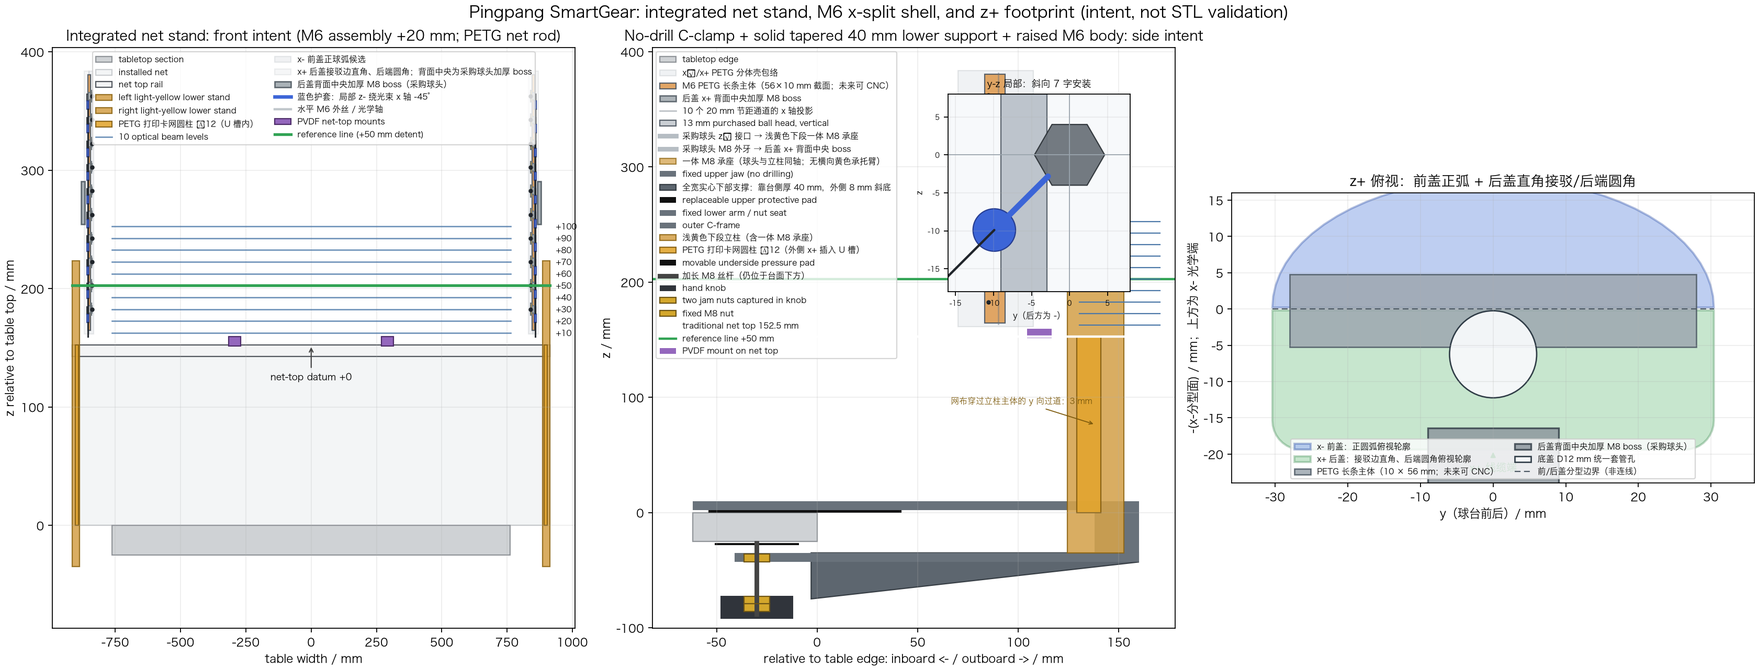
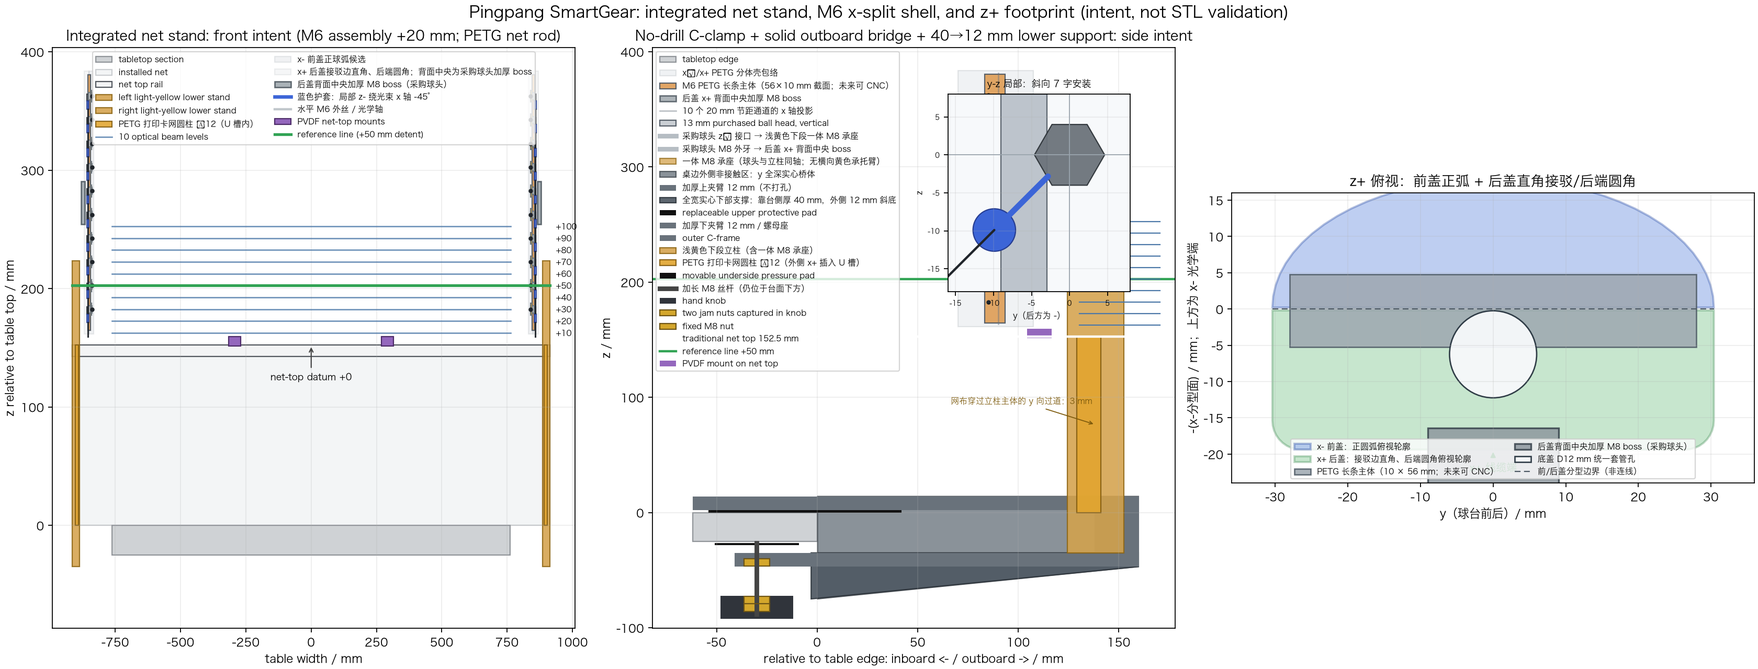
🛠 加厚夹臂并实心化夹体

diff --git a/hardware/cad/preview/app.js b/hardware/cad/preview/app.js
@@ -84,7 +84,7 @@ const COLORS = {
 };
 
 const ASSEMBLY_STEPS = [
-  { number: 1, label: "桌下夹紧与立柱", description: "两侧传统 C 形夹、保护垫、加长 M8 螺杆和旋钮固定在球台边缘；除桌面夹持开口、压块和螺杆区域外，灰色夹体下部沿 y 全深做成实心渐变支撑，靠球台侧厚 40 mm、外侧保持 8 mm 并形成斜底。" },
+  { number: 1, label: "桌下夹紧与立柱", description: "两侧传统 C 形夹、保护垫、加长 M8 螺杆和旋钮固定在球台边缘；保留桌面夹持开口、压块和螺杆工作区，桌边外侧非接触区沿 y 全深做成实心桥体；上下结构夹臂均加厚到 12 mm，靠球台侧下部支撑厚 40 mm，向外侧以 12 mm 下夹臂收口并形成斜底，接触软垫仍独立可替换。" },
   { number: 2, label: "浅黄色下段、3 mm 过道、U 槽与打印卡网柱", description: "浅黄色下段与桌下夹体一体承载网顶承托；当前装配不再显示深黄色上段立柱、接缝套筒/内芯或其它独立上段连接件，左右外边界各离台边 152.5 mm；球头/检测器总成整体上抬 20 mm 以越过网顶，直立下段不再接横向黄色承托臂；网布先沿 x 穿过立柱主体 y 向 3 mm 过道，再进入下段外侧开口的 U 形槽，最后从外侧沿 x 推入独立 PETG Ø12 卡网圆柱，Ø14 仅为干涉校核基准。" },
   { number: 3, label: "网顶承载条与网布", description: "三段约 623.33 mm 的网顶承载条用拼接片锁紧，形成名义总宽 1830 mm 的网顶基准，再挂上真实网布。" },
   { number: 4, label: "M6 45° L 型主体、x 向分体壳与竖直球头", description: "先把左右各十个 M6 直角发射/接收器的中空 M6 外丝轴朝向球台中心：右侧螺纹末端中心孔朝 x-、左侧镜像后朝 x+；器件从各自 x 外侧插入 10×56×216 mm 加宽加厚 PETG 长方条主体，灰色六角留在外侧浅六角窝内，朝台内平滑面带一枚原配螺帽，蓝色尾线局部沿 z-，整件绕光束 x 轴转 -45° 后向 y-/z- 斜向离开；通道中心按 20 mm 节距排列，x- 光学前盖为正球弧、x+ 线缆后盖在接驳边保留直角、仅后端两个角圆滑，两盖共享 y± 边槽并配底盖；后盖 x 背面中央在 y=0、z 中心加厚 M8 boss，接保持竖直的采购 13 mm 球头；球头 z- 接口直接落在浅黄色下段最高水平面的一体 M8 承座，球头与立柱中心同轴，检测器/球头总成沿 x 移到立柱中心，取消横向黄色承托臂；蓝色总成不再经过深灰色独立连接器。" },

diff --git a/hardware/cad/preview.py b/hardware/cad/preview.py
@@ -38,7 +38,9 @@ NET_POST_OUTBOARD_EXTENSION = 152.5
 POST_OFFSET = 138.5
 CLAMP_OUTER_EXTENSION = 7.5
 CLAMP_REACH_INBOARD = 62.0
-CLAMP_PAD_T = 8.0
+# The upper and lower structural clamp jaws are both 12 mm thick.  The
+# separate black protective pads remain 2 mm and replaceable.
+CLAMP_PAD_T = 12.0
 CLAMP_CLEARANCE = 1.5
 POST_CENTER = TABLE_EDGE + POST_OFFSET
 CLAMP_SCREW_INSET = 30.0
@@ -74,6 +76,8 @@ CLAMP_OUTER_WALL_X = CLAMP_PAD_OUTER_X - CLAMP_OUTER_WALL_WIDTH
 CLAMP_REINFORCEMENT_INBOARD_OFFSET_X = 3.0
 CLAMP_REINFORCEMENT_NEAR_TABLE_THICKNESS_Z = 40.0
 CLAMP_REINFORCEMENT_DEPTH_Y = 58.0
+CLAMP_SOLID_BRIDGE_CLEARANCE_X = 0.2
+CLAMP_SOLID_BRIDGE_START_X = CLAMP_SOLID_BRIDGE_CLEARANCE_X
 CLAMP_REINFORCEMENT_START_X = -CLAMP_REINFORCEMENT_INBOARD_OFFSET_X
 CLAMP_REINFORCEMENT_END_X = CLAMP_PAD_OUTER_X - 0.2
 CLAMP_LOWER_ARM_X = CLAMP_SCREW_X - 22.0 / 2
@@ -95,6 +99,7 @@ CLAMP_REINFORCEMENT_OUTER_THICKNESS_Z = CLAMP_PAD_T
 CLAMP_REINFORCEMENT_OUTER_BOTTOM_Z = (
     CLAMP_REINFORCEMENT_TOP_Z - CLAMP_REINFORCEMENT_OUTER_THICKNESS_Z
 )
+CLAMP_SOLID_BRIDGE_TOP_Z = CLAMP_TOP_PAD_T + CLAMP_PAD_T
 OPTICAL_BEAM_EDGE_OVERLAP = 0.5
 OPTICAL_BEAM_AXIS_X = TABLE_EDGE + OPTICAL_BEAM_EDGE_OVERLAP
 POST_BOTTOM = CLAMP_LOWER_ARM_TOP
@@ -821,12 +826,39 @@ def draw_side(ax) -> None:
         )
     )
     ax.add_patch(
+        Polygon(
+            [
+                (
+                    CLAMP_SOLID_BRIDGE_START_X,
+                    CLAMP_REINFORCEMENT_NEAR_TABLE_BOTTOM_Z,
+                ),
+                (
+                    CLAMP_REINFORCEMENT_END_X,
+                    CLAMP_REINFORCEMENT_OUTER_BOTTOM_Z,
+                ),
+                (
+                    CLAMP_REINFORCEMENT_END_X,
+                    CLAMP_SOLID_BRIDGE_TOP_Z,
+                ),
+                (
+                    CLAMP_SOLID_BRIDGE_START_X,
+                    CLAMP_SOLID_BRIDGE_TOP_Z,
+                ),
+            ],
+            closed=True,
+            facecolor="#5d6872",
+            edgecolor="#2e353c",
+            alpha=0.72,
+            label="桌边外侧非接触区：y 全深实心桥体",
+        )
+    )
+    ax.add_patch(
         Rectangle(
             (CLAMP_PAD_X, CLAMP_TOP_PAD_T),
             CLAMP_PAD_OUTER_X - CLAMP_PAD_X,
             CLAMP_PAD_T,
             facecolor="#69727b",
-            label="fixed upper jaw (no drilling)",
+            label="加厚上夹臂 12 mm（不打孔）",
         )
     )
     ax.add_patch(
@@ -853,7 +885,7 @@ def draw_side(ax) -> None:
             facecolor="#4f5963",
             edgecolor="#2e353c",
             alpha=0.92,
-            label="全宽实心下部支撑：靠台侧厚 40 mm，外侧 8 mm 斜底",
+            label="全宽实心下部支撑：靠台侧厚 40 mm，外侧 12 mm 斜底",
         )
     )
     ax.add_patch(
@@ -871,7 +903,7 @@ def draw_side(ax) -> None:
             CLAMP_PAD_OUTER_X - CLAMP_LOWER_ARM_X,
             CLAMP_PAD_T,
             facecolor="#69727b",
-            label="fixed lower arm / nut seat",
+            label="加厚下夹臂 12 mm / 螺母座",
         )
     )
     ax.add_patch(
@@ -1058,7 +1090,7 @@ def draw_side(ax) -> None:
     inset.set_ylabel("z", fontsize=7)
     inset.tick_params(labelsize=6)
     inset.grid(True, alpha=0.2)
-    ax.set_title("No-drill C-clamp + solid tapered 40 mm lower support + raised M6 body: side intent")
+    ax.set_title("No-drill C-clamp + solid outboard bridge + 40→12 mm lower support: side intent")
     ax.set_xlabel("relative to table edge: inboard <- / outboard -> / mm")
     ax.set_ylabel("z / mm")
     ax.grid(True, alpha=0.22)

diff --git a/hardware/cad/validate_net_stand.py b/hardware/cad/validate_net_stand.py
@@ -761,10 +761,14 @@ def probe_parameters(openscad: str, output_dir: Path) -> dict[str, float]:
         "reference_pin_length",
         "reference_carriage_depth",
         "clamp_pad_depth",
+        "clamp_pad_t",
         "clamp_outboard_extension_min",
         "clamp_reinforcement_inboard_offset_x",
         "clamp_reinforcement_near_table_thickness_z",
         "clamp_reinforcement_depth_y",
+        "clamp_solid_bridge_clearance_x",
+        "clamp_solid_bridge_start_x",
+        "clamp_solid_bridge_top_z",
         "clamp_reinforcement_start_x",
         "clamp_reinforcement_end_x",
         "clamp_reinforcement_top_z",
@@ -830,6 +834,16 @@ def probe_parameters(openscad: str, output_dir: Path) -> dict[str, float]:
         parameters["clamp_reinforcement_inboard_offset_x"] > 0
         and parameters["clamp_reinforcement_near_table_thickness_z"] == 40
         and parameters["clamp_reinforcement_depth_y"] == parameters["clamp_pad_depth"]
+        and parameters["clamp_solid_bridge_clearance_x"] > 0
+        and parameters["clamp_solid_bridge_start_x"]
+        == table_edge + parameters["clamp_solid_bridge_clearance_x"]
+        and parameters["clamp_solid_bridge_start_x"] > table_edge
+        and parameters["clamp_solid_bridge_start_x"]
+        < parameters["clamp_reinforcement_end_x"]
+        and parameters["clamp_solid_bridge_top_z"]
+        == parameters["clamp_top_pad_t"] + parameters["clamp_pad_t"]
+        and parameters["clamp_solid_bridge_top_z"]
+        > parameters["clamp_reinforcement_top_z"]
         and parameters["clamp_reinforcement_start_x"] < table_edge
         and parameters["clamp_reinforcement_start_x"]
         > parameters["clamp_pressure_pad_x"]
@@ -876,6 +890,8 @@ def probe_parameters(openscad: str, output_dir: Path) -> dict[str, float]:
         parameters["clamp_pressure_pad_top_z"]
         and parameters["clamp_lower_arm_top_z"] <
         parameters["clamp_pressure_pad_bottom_z"]
+        and parameters["clamp_pad_t"] == 12
+        and parameters["clamp_lower_arm_t"] == parameters["clamp_pad_t"]
     ):
         raise RuntimeError(f"M8x1.25 clamp pressure path is inconsistent: {parameters}")
     if not (
@@ -1262,6 +1278,7 @@ def validate_current_m6_contract(parameters: dict[str, float]) -> None:
         or "net_passage_negative_positive();" not in post_segment_module
         or "net_clamp_channel_negative_positive();" not in post_segment_module
         or "clamp_solid_tapered_reinforcement_positive();" not in table_clamp_body_module
+        or "clamp_solid_outboard_bridge_positive();" not in table_clamp_body_module
         or "m6_detector_mount_raise_z" not in assembly_module
         or "m6_detector_mount_raise_z" not in exploded_assembly_module
         or "net_clamp_rod_positive();" not in stand_module

diff --git a/hardware/cad/test_preview_consistency.py b/hardware/cad/test_preview_consistency.py
@@ -40,6 +40,7 @@ PARAMETER_MAP = {
     "CLAMP_REINFORCEMENT_INBOARD_OFFSET_X": "clamp_reinforcement_inboard_offset_x",
     "CLAMP_REINFORCEMENT_NEAR_TABLE_THICKNESS_Z": "clamp_reinforcement_near_table_thickness_z",
     "CLAMP_REINFORCEMENT_DEPTH_Y": "clamp_reinforcement_depth_y",
+    "CLAMP_SOLID_BRIDGE_CLEARANCE_X": "clamp_solid_bridge_clearance_x",
     "CLAMP_PRESSURE_PAD_WIDTH": "clamp_pressure_pad_width",
     "CLAMP_PRESSURE_PAD_T": "clamp_pressure_pad_t",
     "M6_SENSOR_HEAD_LENGTH_X": "m6_sensor_head_length_x",

diff --git a/hardware/cad/README.md b/hardware/cad/README.md
@@ -17,7 +17,7 @@
 - `assembly`：含球台截面、网布、网顶承载条、双侧浅黄色下段、桌下夹持、左右各十路 45° L 型 M6 直角器件、PETG 长条主体、完整 x 向分体前后盖、底盖、后盖 M8 boss、竖直采购球头、与立柱中心同轴的浅黄色下段顶面 M8 承座、PVDF 网顶安装座和十条名义光轴的装配预览；检测器/球头总成沿 x 移到立柱中心，取消横向黄色承托臂，深黄色上段和深灰色独立连接器不再显示；
 - `left_stand` / `right_stand`：左右单侧结构检查件，包含立柱、传统桌下夹持、网顶承托座和 M6 PETG 光学基座；PVDF 座位于全宽网顶承载条中段，在 `assembly` 或 `sensor_mount` 中检查；
 - `table_clamp_section`：桌板剖面可视校验件，明确显示桌板上下表面、独立台底压块、圆头 M8×1.25 螺杆、固定下臂螺母和旋钮内两枚对锁螺母；它只是证据预览，不是打印件；
-- `post`：单侧浅黄色直立下段与立柱中心同轴的一体 M8 球头承座装配预览；`lower_stand_segment`：浅黄色下段、承座与固定 C 形夹一体打印，承座不再通过横向黄色承托臂连接；灰色夹体除桌面夹持开口、台底压块和螺杆区域外，外侧下部沿 y 全深为实心渐变支撑，靠台侧厚 `40 mm`、外侧保持 `8 mm`；`post_segment`、`post_joint_sleeve` / `post_joint_key` 仅保留为旧版两段立柱的兼容诊断入口，不进入当前打印清单；`table_clamp`：单侧桌下夹持装配预览；`table_clamp_body`：固定 C 形夹体、实心渐变下部和下臂 M8 螺母捕获窝的几何检查件；`clamp_top_pad`：固定上夹板与桌面之间的可替换 TPU/硅胶保护垫；`clamp_pressure_pad`：台底可动压块/软垫占位；`clamp_screw`：带圆头且相对原包络加长 `12 mm` 的 M8×1.25 标准螺杆占位；`clamp_body_nut`：固定下臂中的标准 M8 螺母；`clamp_knob`：带 M8 通孔和两枚对锁螺母捕获窝的手拧旋钮；`clamp_knob_nut`：旋钮内捕获的两枚标准 M8 对锁螺母；
+- `post`：单侧浅黄色直立下段与立柱中心同轴的一体 M8 球头承座装配预览；`lower_stand_segment`：浅黄色下段、承座与固定 C 形夹一体打印，承座不再通过横向黄色承托臂连接；灰色夹体保留桌面夹持开口、台底压块和螺杆区域，桌边外侧非接触区沿 y 全深为实心桥体，上下结构夹臂均为 `12 mm`，外侧下部沿 y 全深为实心渐变支撑，靠台侧厚 `40 mm`、外侧收口为 `12 mm`；`post_segment`、`post_joint_sleeve` / `post_joint_key` 仅保留为旧版两段立柱的兼容诊断入口，不进入当前打印清单；`table_clamp`：单侧桌下夹持装配预览；`table_clamp_body`：固定 C 形夹体、实心桥体/渐变下部和下臂 M8 螺母捕获窝的几何检查件；`clamp_top_pad`：固定上夹板与桌面之间的可替换 TPU/硅胶保护垫；`clamp_pressure_pad`：台底可动压块/软垫占位；`clamp_screw`：带圆头且相对原包络加长 `12 mm` 的 M8×1.25 标准螺杆占位；`clamp_body_nut`：固定下臂中的标准 M8 螺母；`clamp_knob`：带 M8 通孔和两枚对锁螺母捕获窝的手拧旋钮；`clamp_knob_nut`：旋钮内捕获的两枚标准 M8 对锁螺母；
 - `net`：网布装配占位，不是 PETG 打印件；`net_rail`：名义总跨度 `1830 mm`、三段带搭接和拼接片的网顶承载条装配预览；`net_rail_segment`：约 `623.33 mm` 的可打印单段；`net_rail_splice`：带 M3 孔的拼接片；`net_rail_saddle`：两侧立柱内侧的承托/端部限位座；`net_clamp_rod`：单侧 U 槽卡网圆柱，实际 Ø12 mm、PETG 直接打印，装配时从立柱外侧沿 x 推入；Ø14 mm 仅用于干涉校核；
 - `m6_detector_body`：PETG 长条主体，中央基准 `10×56×216 mm`，后续可按同一包络改 CNC；10 个 `20 mm` 节距的 x 向水平光学/M6 外丝让位和绕 x 轴 -45° 的尾线让位孔，右侧从 x+、左侧从 x- 外侧装入，后方为浅 `AF8×2.1 mm` x 向六角定位沉孔，M6 外丝直穿，朝台内平滑面只保留一枚原配螺帽；主体不带 T 尾座、不挖主体线缆槽，后盖 x 背面中央另设 y=0、z 中心加厚 boss 和 Ø8.6 mm M8 通孔；
 - `m6_detector_fit_probe` / `m6_detector_fit_body`：当前首样的最小验证件，包含中央 PETG 长条、按真实 `AF8` 六角头外形切出的浅 x 向卡槽和中空 M6 外丝通孔；配套显示真实三维灰色六角、空心光学筒、蓝色 L 型护套和 `-45°` 斜下尾线。右侧从 x+ 插入，左侧由镜像得到，轴向卡入量为 `2 mm`，不包含螺帽、壳体、支撑或云台；
@@ -32,7 +32,7 @@
 
 M6 首样输入和可复现孔位表见 [`docs/m6-aluminum-machining-spec-v0.1.zh-CN.md`](../../docs/m6-aluminum-machining-spec-v0.1.zh-CN.md)，首样零件/紧固件清单和装配放行顺序见 [`../../docs/m6-first-article-release-v0.1.zh-CN.md`](../../docs/m6-first-article-release-v0.1.zh-CN.md)。运行 `python3 export_m6_machining_spec.py` 可从当前 SCAD 参数探针生成主体、后盖 boss、三件 PETG 盖件、传感器和采购球头选项的 JSON；运行 `python3 export_m6_machining_previews.py --clean` 只生成主体局部坐标 STL 及 `manifest.json`；运行 `python3 export_m6_component_previews.py --clean` 可按左右两侧独立生成主体、前盖、后盖和底盖共 8 个完整 STL 及组件清单。加工/打印前仍需用真实 M6 SKU、传感器六角/有效螺纹、采购球头螺纹选项和网夹安装面实测结果更新/复核。
 
-首轮几何参数是球台宽度 `1525 mm`、网柱外边界距台边 `152.5 mm`、名义网架总宽 `1830 mm`、网顶高度 `152.5 mm`、10 个高度通道 `+10…+190 mm`（总成整体上抬 `20 mm` 后安装高度为 `+30…+210 mm`）、M6×0.75 直角对射器件和两侧加长的 `M8×1.25` 竖直夹紧螺杆。M6 中央主体按 `10×56×216 mm` 建模：水平光学/M6 外丝轴沿 x，蓝色尾线局部沿 z- 后绕 x 轴 -45°，主体中心在 y=0，右侧从 x+、左侧从 x- 外侧装入，单列中心距 `20 mm`；10 mm x 厚度通过 2 mm 头部卡入、5 mm 螺帽和约 1 mm 端部余量闭合，首件需复核公差和螺帽真实厚度。后盖 x 背面中央另设约 `14×18×36 mm` 加厚 boss，并开 Ø8.6 mm x 向通孔接采购 13 mm 球头的 M8 外牙；壳体当前已按 x 光学端/线缆端分段：x- 前盖保留正球弧，x+ 后盖接驳边保持直角、仅自身后部两角圆滑，底盖有统一线缆套管过孔；两盖共享 y± 连续边槽，槽舌、沉头孔和真实器件净空仍需首样复核，不视为最终打印放行。采购球头保持竖直，球头 z- 接口直接拧入浅黄色下段的一体 M8 承座，当前装配不再使用深黄色上段或深灰色独立连接器；偏航、俯仰、旋转微调仍由采购球头完成。依据 ITTF Technical Leaflet T2，当前自定义夹体最外点收敛为台边外 `160 mm`，仍满足项目下限 `130 mm`；它不是 ITTF 认证网夹，若复用商品夹，必须另测开口和台下投影。台边外伸段的外侧下部改为沿 y 全深实心渐变支撑，靠台侧厚 `40 mm`、外侧保持 `8 mm` 并形成斜底；立柱外侧另设贯穿网高的 U 槽和 Ø12 mm PETG 卡网圆柱（Ø14 mm 干涉基准只用于首样配合检查），实际 PETG 层向、夹紧力、网布张力、球路净空和球头刚度仍需首样验证。球网、M6 光电器件、采购球头、PVDF 薄膜、线束、夹持软垫和金属标准件仍属于装配边界；OpenSCAD 结果不等同于最终强度、球台兼容性、电气输出语义或光学精度验收。
+首轮几何参数是球台宽度 `1525 mm`、网柱外边界距台边 `152.5 mm`、名义网架总宽 `1830 mm`、网顶高度 `152.5 mm`、10 个高度通道 `+10…+190 mm`（总成整体上抬 `20 mm` 后安装高度为 `+30…+210 mm`）、M6×0.75 直角对射器件和两侧加长的 `M8×1.25` 竖直夹紧螺杆。M6 中央主体按 `10×56×216 mm` 建模：水平光学/M6 外丝轴沿 x，蓝色尾线局部沿 z- 后绕 x 轴 -45°，主体中心在 y=0，右侧从 x+、左侧从 x- 外侧装入，单列中心距 `20 mm`；10 mm x 厚度通过 2 mm 头部卡入、5 mm 螺帽和约 1 mm 端部余量闭合，首件需复核公差和螺帽真实厚度。后盖 x 背面中央另设约 `14×18×36 mm` 加厚 boss，并开 Ø8.6 mm x 向通孔接采购 13 mm 球头的 M8 外牙；壳体当前已按 x 光学端/线缆端分段：x- 前盖保留正球弧，x+ 后盖接驳边保持直角、仅自身后部两角圆滑，底盖有统一线缆套管过孔；两盖共享 y± 连续边槽，槽舌、沉头孔和真实器件净空仍需首样复核，不视为最终打印放行。采购球头保持竖直，球头 z- 接口直接拧入浅黄色下段的一体 M8 承座，当前装配不再使用深黄色上段或深灰色独立连接器；偏航、俯仰、旋转微调仍由采购球头完成。依据 ITTF Technical Leaflet T2，当前自定义夹体最外点收敛为台边外 `160 mm`，仍满足项目下限 `130 mm`；它不是 ITTF 认证网夹，若复用商品夹，必须另测开口和台下投影。桌边外侧非接触区沿 y 全深做成实心桥体，上下结构夹臂均为 `12 mm`；外侧下部仍为沿 y 全深的 40→12 mm 实心渐变支撑，立柱外侧另设贯穿网高的 U 槽和 Ø12 mm PETG 卡网圆柱（Ø14 mm 干涉基准只用于首样配合检查），实际 PETG 层向、夹紧力、网布张力、球路净空和球头刚度仍需首样验证。球网、M6 光电器件、采购球头、PVDF 薄膜、线束、夹持软垫和金属标准件仍属于装配边界；OpenSCAD 结果不等同于最终强度、球台兼容性、电气输出语义或光学精度验收。
 
 导出示例：
 

diff --git a/hardware/cad/print-manifest.zh-CN.md b/hardware/cad/print-manifest.zh-CN.md
@@ -10,7 +10,7 @@
 | `left_stand` | 1 | PETG 结构装配检查件；为 `right_stand` 的镜像侧；M6 PETG 光学基座和 PVDF 座单独检查 |
 | `post` | 2 | 立柱装配预览；当前每侧只保留直立上移到球头承托面的浅黄色下段、固定 C 形夹和最高水平面一体 M8 球头承座，不再装配深黄色上段 |
 | `post_segment` | 0 | 旧版两段立柱兼容诊断入口；深黄色上段不进入当前打印清单 |
-| `lower_stand_segment` | 2 | PETG；左右各 1 件，直立的浅黄色下段、固定 C 形夹和与立柱中心同轴的顶面一体 M8 球头承座合并打印，蓝色检测器/球头总成沿 x 对正后直接落在此承座上，不使用横向黄色承托臂；桌面夹持开口、压块和螺杆区域保留，灰色夹体外侧下部沿 y 全深为实心渐变支撑，靠台侧厚 40 mm、外侧 8 mm；M8 夹紧丝杆相对原包络加长 12 mm |
+| `lower_stand_segment` | 2 | PETG；左右各 1 件，直立的浅黄色下段、固定 C 形夹和与立柱中心同轴的顶面一体 M8 球头承座合并打印，蓝色检测器/球头总成沿 x 对正后直接落在此承座上，不使用横向黄色承托臂；桌面夹持开口、压块和螺杆区域保留，桌边外侧非接触区沿 y 全深做成实心桥体，上下结构夹臂均为 12 mm，灰色下部支撑靠台侧厚 40 mm、外侧收口为 12 mm 并形成斜底；M8 夹紧丝杆相对原包络加长 12 mm |
 | `net_clamp_rod` | 2 | PETG；左右各 1 根独立卡网圆柱；网布先沿 x 穿过立柱主体 y 向 `3 mm` 过道、再从外侧放入 U 形槽，圆柱沿 x 推入锁住；Ø14 mm 仅作干涉校核，实际打印圆柱为 Ø12 mm（直径小 2 mm） |
 | `post_joint_sleeve` | 0 | 旧版两段立柱接缝兼容诊断入口；当前不再使用 |
 | `post_joint_key` | 0 | 旧版两段立柱接缝兼容诊断入口；当前不再使用 |
@@ -37,9 +37,9 @@
 | `calibration_gauge` | 1 | PETG；历史兼容的 STG-120ML 3.87 mm 高度标定规，暂保留用于旧方案回归，不作为 M6 光学精度依据 |
 | `net` | 1 | 非打印件；使用真实球网/网布装配，OpenSCAD 只显示占位几何 |
 
-`assembly` 是整体关系预览，不建议直接导出成一件打印；`left_stand`/`right_stand` 也主要用于装配、干涉和桌下夹持检查。当前首样下段明确使用 `lower_stand_segment` 一体件，深黄色上段与两件接缝零件不再装配。下段立柱主体在网布通过处沿 x 贯穿切出 y 向 `3 mm` 过道，网布先穿过该过道并从外侧放入 U 形卡网槽，再把独立 PETG Ø12 mm 圆柱沿 x 推入；Ø14 mm 只作为干涉校核圆柱，不采购。M6 主线是用户选定的商品 SKU `6122579349941`（M6 直角对射、NPN、0–20 m）；当前按 M6×0.75 建模，光学面沿 x 朝球台中心，安装腿局部 z- 后绕 x 轴 -45°，传感器有效螺纹、外露六角、螺帽厚度、线缆出口和电气接口仍需向卖家/实物确认。M6 主体、前后盖、底盖和浅黄色下段一体承座是 PETG 首样候选，后续可改 CNC；采购 13 mm 球头与商品网夹属于外购边界，检测器/球头总成沿 x 移到立柱中心，球头 z− 接口直接拧入浅黄色直立下段顶面的同轴承座，不使用横向黄色承托臂或深灰色独立连接器。灰色桌下夹体保留桌面夹持开口、台底压块和螺杆区域，其外侧下部沿 y 全深为实心渐变支撑，靠台侧厚 40 mm、外侧保持 8 mm；M8 夹紧丝杆相对原包络加长 12 mm。PVDF、AFE、线束、ESP32-S3、M8 螺杆、固定下臂螺母、每侧两枚旋钮对锁螺母和网布也属于非 CAD 打印件或标准件；压块软垫必须按实物材料单独确认。旋钮和螺杆的接口现在由 CAD 明确为“固定下臂 M8 螺母 + 旋钮内两枚预先对锁的 M8 螺母 + M8 圆头螺杆”，不使用 PETG 内螺纹或不明确的双固定螺纹。
+`assembly` 是整体关系预览，不建议直接导出成一件打印；`left_stand`/`right_stand` 也主要用于装配、干涉和桌下夹持检查。当前首样下段明确使用 `lower_stand_segment` 一体件，深黄色上段与两件接缝零件不再装配。下段立柱主体在网布通过处沿 x 贯穿切出 y 向 `3 mm` 过道，网布先穿过该过道并从外侧放入 U 形卡网槽，再把独立 PETG Ø12 mm 圆柱沿 x 推入；Ø14 mm 只作为干涉校核圆柱，不采购。M6 主线是用户选定的商品 SKU `6122579349941`（M6 直角对射、NPN、0–20 m）；当前按 M6×0.75 建模，光学面沿 x 朝球台中心，安装腿局部 z- 后绕 x 轴 -45°，传感器有效螺纹、外露六角、螺帽厚度、线缆出口和电气接口仍需向卖家/实物确认。M6 主体、前后盖、底盖和浅黄色下段一体承座是 PETG 首样候选，后续可改 CNC；采购 13 mm 球头与商品网夹属于外购边界，检测器/球头总成沿 x 移到立柱中心，球头 z− 接口直接拧入浅黄色直立下段顶面的同轴承座，不使用横向黄色承托臂或深灰色独立连接器。灰色桌下夹体保留桌面夹持开口、台底压块和螺杆区域；桌边外侧非接触区沿 y 全深为实心桥体，上下结构夹臂均为 12 mm，下部支撑靠台侧厚 40 mm、外侧收口为 12 mm 并形成斜底；M8 夹紧丝杆相对原包络加长 12 mm。PVDF、AFE、线束、ESP32-S3、M8 螺杆、固定下臂螺母、每侧两枚旋钮对锁螺母和网布也属于非 CAD 打印件或标准件；压块软垫必须按实物材料单独确认。旋钮和螺杆的接口现在由 CAD 明确为“固定下臂 M8 螺母 + 旋钮内两枚预先对锁的 M8 螺母 + M8 圆头螺杆”，不使用 PETG 内螺纹或不明确的双固定螺纹。
 
-`table_clamp_section` 只用于桌板剖面核对：灰色区域是桌板实体，上表面可替换保护垫位于固定上夹板与桌面之间，台底黑色/软色压块位于桌底下方，加长圆头螺杆只顶台底压块，固定下臂螺母和旋钮内两枚对锁螺母都在桌板下方；夹体外侧下部为 y 全深实心渐变支撑，靠台侧 40 mm、外侧 8 mm。它不是新增打印件，也不改变 `table_clamp` 的免打孔装配关系。
+`table_clamp_section` 只用于桌板剖面核对：灰色区域是桌板实体，上表面可替换保护垫位于固定上夹板与桌面之间，台底黑色/软色压块位于桌底下方，加长圆头螺杆只顶台底压块，固定下臂螺母和旋钮内两枚对锁螺母都在桌板下方；桌边外侧非接触区为 y 全深实心桥体，上下结构夹臂均为 12 mm，下部支撑靠台侧 40 mm、外侧 12 mm 并形成斜底。它不是新增打印件，也不改变 `table_clamp` 的免打孔装配关系。
 
 ## 导出示例
 

diff --git a/docs/implementation-audit.zh-CN.md b/docs/implementation-audit.zh-CN.md
@@ -20,7 +20,7 @@
 
 | 范围 | 当前证据 |
 | --- | --- |
-| 当前内置球网支架 CAD | `hardware/cad/net_stand.scad` 支持 `assembly`、左右单侧结构检查件、两段约 `153 mm` 的立柱分件、下段与固定 C 形夹一体的 `lower_stand_segment`、接缝外套筒/内芯、固定上夹板与桌面之间的可替换保护垫、台底可动压块、带圆头且不穿入压块的加长 M8 螺杆、固定下臂 M8 螺母窝、带两枚预先对锁 M8 螺母捕获窝的旋钮、开口外侧沿 y 全深的 40→8 mm 实心渐变下部支撑、名义总宽 `1830 mm` 的 3 段搭接网顶承载条、2 片带孔拼接片和两侧承托/端挡座、可单独导出的 `optical_rail`、带每 10 mm 实际贯穿定位孔/刻度的光学导轨、光轴覆盖球台边缘的 10 个带正交调节长孔光学模块载台、带打印间隙贯穿销孔的参考线端座/定位销、PVDF 薄膜/两侧可拆压片、独立 PVDF 安装座和标定规；`optical_strip` 仅用于装配预览；首轮参数为球台宽度 `1525 mm`、网柱外边界离台边 `152.5 mm`、网顶 `152.5 mm`、夹体外轮廓名义外伸 `160 mm`（项目下限 `130 mm`，对应 ITTF T2 水平部分上限）、光栅 `+10…+100 mm`、相对原包络加长 `12 mm` 的 M8 竖直夹紧螺杆；`validate_net_stand.py` 编译当前 PART、检查左右镜像、独立打印零件 STL 的封闭边拓扑、18/25/30 mm 台厚下的免打孔路径、台边跨接、光学导轨处于立柱实体外、上表面保护垫包络、实心渐变支撑与 C 形夹下部重叠、圆头螺杆/压块/固定下臂单枚螺母/旋钮两枚对锁螺母的装配包络与叠层均低于台面底面、3 段网顶承载条覆盖全跨度、承托座跨过立柱内侧并到达网顶高度、接缝拼接片索引、参考端座和定位销贯穿端座/导轨并落在选定档位、全部 10 个载台档位、薄膜被压片包住、下段一体打印件包络和装配包络，并拒绝 9 路光栅、+55 mm 非法参考高度、无打印间隙的销孔和不存在的载台索引；`assembly`、左右单侧结构和其它组合 PART 明确只做装配/重叠 PNG 预览，不作为打印 STL。 |
+| 当前内置球网支架 CAD | `hardware/cad/net_stand.scad` 支持 `assembly`、左右单侧结构检查件、两段约 `153 mm` 的立柱分件、下段与固定 C 形夹一体的 `lower_stand_segment`、接缝外套筒/内芯、固定上夹板与桌面之间的可替换保护垫、台底可动压块、带圆头且不穿入压块的加长 M8 螺杆、固定下臂 M8 螺母窝、带两枚预先对锁 M8 螺母捕获窝的旋钮、桌面夹持开口外侧沿 y 全深的实心桥体与 40→12 mm 实心渐变下部支撑、上下结构夹臂均 12 mm、名义总宽 `1830 mm` 的 3 段搭接网顶承载条、2 片带孔拼接片和两侧承托/端挡座、可单独导出的 `optical_rail`、带每 10 mm 实际贯穿定位孔/刻度的光学导轨、光轴覆盖球台边缘的 10 个带正交调节长孔光学模块载台、带打印间隙贯穿销孔的参考线端座/定位销、PVDF 薄膜/两侧可拆压片、独立 PVDF 安装座和标定规；`optical_strip` 仅用于装配预览；首轮参数为球台宽度 `1525 mm`、网柱外边界离台边 `152.5 mm`、网顶 `152.5 mm`、夹体外轮廓名义外伸 `160 mm`（项目下限 `130 mm`，对应 ITTF T2 水平部分上限）、光栅 `+10…+100 mm`、相对原包络加长 `12 mm` 的 M8 竖直夹紧螺杆；`validate_net_stand.py` 编译当前 PART、检查左右镜像、独立打印零件 STL 的封闭边拓扑、18/25/30 mm 台厚下的免打孔路径、台边跨接、光学导轨处于立柱实体外、上表面保护垫包络、实心桥体/渐变支撑与 C 形夹下部重叠、圆头螺杆/压块/固定下臂单枚螺母/旋钮两枚对锁螺母的装配包络与叠层均低于台面底面、3 段网顶承载条覆盖全跨度、承托座跨过立柱内侧并到达网顶高度、接缝拼接片索引、参考端座和定位销贯穿端座/导轨并落在选定档位、全部 10 个载台档位、薄膜被压片包住、下段一体打印件包络和装配包络，并拒绝 9 路光栅、+55 mm 非法参考高度、无打印间隙的销孔和不存在的载台索引；`assembly`、左右单侧结构和其它组合 PART 明确只做装配/重叠 PNG 预览，不作为打印 STL。 |
 | 历史外挂 X 夹具 CAD | `hardware/cad/net_post_x_clamp.scad` 和旧验证脚本保留在历史边界，用于设计回溯与旧几何回归；它不再是当前机械主线。 |
 | CAD 几何关系 | `validate_net_stand.py` 从当前 OpenSCAD 参数探针读取网顶高度、光栅档位、网柱外边界 `+152.5 mm`、名义网架跨度 `1830 mm`、夹体名义外伸 `160 mm`、实心渐变支撑和支架顶部余量；`preview.py`、`render_net_stand_preview.py` 提供当前内置支架的正视/侧面和 OpenSCAD 实体可视证据。 |
 | 光栅业务 | 10 位 `beam_mask`、最低/最高命中光束、安静结束、超时边界、逐通道位图和高度区间均有主机测试；采集器保留跨事件时间边界，事件结束后迟到的旧边沿会形成 invalid/unknown，不会伪造新的有效高度。 |

diff --git a/docs/net-height-device-design.zh-CN.md b/docs/net-height-device-design.zh-CN.md
@@ -54,7 +54,7 @@ BLE、Wi-Fi、WebSocket、MQTT、SSE、配网和 App 多设备基础设施不在
 每侧支架由以下部分组成：
 
 - 立柱主体：从桌下夹持区域延伸到抬高后的球头承托位置，当前首样由浅黄色 `lower_stand_segment` 一体件承担；下段立柱主体在网布通过处沿 x 切出 y 向 `3 mm` 过道，再在外侧沿网高开 U 形卡网槽，网布先穿过主体过道并放入 U 槽后用独立 PETG Ø12 mm 圆柱沿 x 推入锁住，Ø14 mm 只作干涉校核。球头承座从下段顶面与立柱中心同轴并与下段融合。旧版两段立柱的上段、`post_joint_sleeve` 和 `post_joint_key` 仅保留为兼容诊断，不属于当前装配；
-- 传统桌下夹持：固定 C 形夹体跨过台面边缘，上夹板通过可替换 TPU/硅胶保护垫压住台面上表面；桌面夹持开口、台底可动压块和 M8 螺杆区域保留，开口之外的外侧下部改为沿 y 全深的实心渐变支撑，靠球台侧厚 `40 mm`、外侧保持下臂原有 `8 mm` 厚并形成斜底；台底可动压块由下方加长 M8 圆头螺杆顶起并夹紧；固定下臂捕获一枚 M8 螺母，螺杆下端再用两枚 M8 螺母预先对锁并装入打印旋钮，使旋钮与螺杆刚性同步，避免依赖 PETG 内螺纹或形成未定义的双螺纹约束；螺杆圆头只接触压块底面，始终位于台面下方，不穿过球台或压块，整个支架免打孔安装；实心渐变支撑的层向、保护垫、接触软垫、标准件防松、加长丝杆长度和实际夹紧力仍需实测；
+- 传统桌下夹持：固定 C 形夹体跨过台面边缘，上夹板通过可替换 TPU/硅胶保护垫压住台面上表面；桌面夹持开口、台底可动压块和 M8 螺杆区域保留，桌边外侧非接触区改为沿 y 全深的实心桥体，上下结构夹臂均加厚到 `12 mm`，开口之外的外侧下部为实心渐变支撑，靠球台侧厚 `40 mm`、外侧收口为 `12 mm` 并形成斜底；台底可动压块由下方加长 M8 圆头螺杆顶起并夹紧；固定下臂捕获一枚 M8 螺母，螺杆下端再用两枚 M8 螺母预先对锁并装入打印旋钮，使旋钮与螺杆刚性同步，避免依赖 PETG 内螺纹或形成未定义的双螺纹约束；螺杆圆头只接触压块底面，始终位于台面下方，不穿过球台或压块，整个支架免打孔安装；实心桥体/渐变支撑的层向、保护垫、接触软垫、标准件防松、加长丝杆长度和实际夹紧力仍需实测；
 - 网顶承载条：按 ITTF 网柱外侧边界距台边 `152.5 mm` 的常规尺寸，连接左右立柱的名义总跨度为 `1830 mm`，两侧各比 `1525 mm` 球台外伸 `152.5 mm`；首轮拆成 3 段约 `623 mm` 的搭接件，接缝下方用 2 片带 M3 孔的 `net_rail_splice` 拼接片锁紧（或替换为同接口铝型材），两端落在 `net_rail_saddle` 承托座上并由立柱侧端挡限位，支撑真实网布/白边；网布在装配时就属于本支架的一部分；
 - PVDF 安装座：左右各一处，固定在网顶承载条附近；`pvdf_film` 由两侧可拆压片夹持，薄膜可替换，线束沿立柱走线；
 - M6 光学安装：左右各使用当前 `m6_detector_body`、`m6_detector_mount` 和 `m6_sensor_array`；直角器件的光学/M6 外丝轴沿 x 朝球台中心，尾线局部沿 z- 后绕 x 轴 -45°，十个通道按原始 `+10…+190 mm`、`20 mm` 节距单列布置，完整检测器/球头总成上抬 `20 mm` 后实际安装高度为 `+30…+210 mm`；M6 外丝从各自外侧穿过主体并由主体外表面一枚螺帽锁紧；x- 光学端为加大正球弧前盖，x+ 线缆端为接驳边直角且仅自身后端两角圆滑的后盖，底盖有约 Ø12 mm 统一套管孔。后盖 x 背面中央（y=0、z 中心）为加厚 boss，x 向 Ø8.6 通孔接采购 13 mm 球头的 M8 外牙；球头保持竖直，z− 接口直接拧入浅黄色下段的一体 M8 承座，当前不再经过深黄色上段或深灰色独立连接器；球头锁紧机构负责偏航/俯仰/滚转微调。M6 头部防转、线缆出口、boss 孔和最终网夹接口尺寸在实物量测前不冻结。

diff --git a/docs/validation-coverage-v0.1.zh-CN.md b/docs/validation-coverage-v0.1.zh-CN.md
@@ -19,7 +19,7 @@ ASAN_OPTIONS=detect_leaks=0 UBSAN_OPTIONS=halt_on_error=1 \
 | --- | --- | --- | --- |
 | M-01 | 无；`tools/validate_field_record.py` 可校验现场记录格式 | 记录项完整性和证据路径安全 | 内置支架重复从桌下夹紧、安装位置、滑移和软垫损伤记录 |
 | M-02 | `hardware/cad/validate_net_stand.py`；OpenSCAD CI 当前 `net_stand.scad` 各部件、夹体/上表面保护垫/台底压块/圆头螺杆/固定下臂螺母/旋钮两枚对锁螺母拆分、18/25/30 mm 台厚免打孔矩阵、镜像、独立打印零件 STL 封闭边拓扑与非法参数路径 | 免打孔 C 形夹体跨过台边，上表面可替换保护垫位于固定上夹板与桌面之间，圆头 M8 螺杆只到台底压块下表面；固定下臂单枚螺母与旋钮两枚对锁螺母的包络、叠层深度和螺杆穿越关系可编译；独立打印零件的 STL 没有开放边/非流形边，组合装配 PART 只作为可视检查，左右导出可编译 | 实物样块/球台的夹紧力、台面损伤、保护垫材料/压缩、立柱倾斜、螺杆行程、对锁防松和标准件实际装配 |
-| M-03 | `validate_net_stand.py`；`render_net_stand_preview.py`；`render_m6_views.py`；装配页 | `152.5 mm` 网顶、`1830 mm` 名义网架总宽、左右各 `152.5 mm` 网柱外伸、当前夹体外轮廓名义外伸 `160 mm` 且结构下限为 `130 mm`、桌面夹持开口外的 y 全深实心渐变下部支撑（靠台侧 `40 mm`、外侧 `8 mm`）、双侧替换式支架、3 段承载条与拼接片、左右各一根 10×56×216 mm M6 PETG 主体、后盖 x 背面中央加厚 M8 boss、前后盖/底盖、20 个 M6 直角器件包络、竖直采购球头、10 对名义光轴和 PVDF 安装位的参数与可视关系 | 真实网布张力、两侧外伸后的脚部/球路净空、实心渐变支撑耐久性、加长 M8 丝杆行程、左右主体平行度、网顶高度、M6 螺纹/螺母/光学中心、球头和网夹接口、NPN 供电/电平和线缆净空；若宣称标准网夹兼容，还需量测 ITTF T2 的开口/台下投影边界 |
+| M-03 | `validate_net_stand.py`；`render_net_stand_preview.py`；`render_m6_views.py`；装配页 | `152.5 mm` 网顶、`1830 mm` 名义网架总宽、左右各 `152.5 mm` 网柱外伸、当前夹体外轮廓名义外伸 `160 mm` 且结构下限为 `130 mm`、桌面夹持开口外的 y 全深实心桥体与渐变下部支撑（上下结构夹臂均 `12 mm`，靠台侧 `40 mm`、外侧 `12 mm`）、双侧替换式支架、3 段承载条与拼接片、左右各一根 10×56×216 mm M6 PETG 主体、后盖 x 背面中央加厚 M8 boss、前后盖/底盖、20 个 M6 直角器件包络、竖直采购球头、10 对名义光轴和 PVDF 安装位的参数与可视关系 | 真实网布张力、两侧外伸后的脚部/球路净空、实心桥体/渐变支撑耐久性、加长 M8 丝杆行程、左右主体平行度、网顶高度、M6 螺纹/螺母/光学中心、球头和网夹接口、NPN 供电/电平和线缆净空；若宣称标准网夹兼容，还需量测 ITTF T2 的开口/台下投影边界 |
 | B-01 | `test_clean_over_and_height_interval()`、`test_every_beam_mask_interval()` | `clean_over`、位图、离散高度和球底间隔契约 | 真实光束与球体遮挡 |
 | B-02 | `test_sensor_pipeline_end_to_end()`、`test_trigger_before_dma_dispatch_pipeline()`、`test_runtime_chain_with_delivery()`、`net_event_trace` | 擦网候选与光栅关联、波形引用/特征、`touch_over` 以及事件进入传输缓存 | PVDF 前端与真实过网动作 |
 | B-03 | `test_touch_no_cross_and_unknown()`、`net_event_trace` | 擦网无光栅时的 `touch_no_cross` 和质量标记 | 真实擦网未过网动作 |

diff --git a/docs/field-validation-record-template.zh-CN.md b/docs/field-validation-record-template.zh-CN.md
@@ -43,7 +43,7 @@
 
 ### M-03 替换式球网基准
 
-安装左右 `net_stand`、网顶承载条、真实网布、PVDF 安装座、左右 M6 PETG 长条主体、前后盖、底盖、竖直采购球头和 20 枚 M6 直角对射器件。用直尺/水平仪记录网顶是否为首轮 `152.5 mm`、名义总网宽是否为 `1830 mm`、左右网柱外边界是否各比台边外伸 `152.5 mm`、左右主体和光轴平行度、10 对光轴的高度/间距、线缆净空和网布张力是否使支架转动；另检查夹体外轮廓/下沿相对台边的外伸是否至少 `130 mm`、灰色下部全宽实心渐变支撑（靠台侧 `40 mm`、外侧 `8 mm` 斜底）、台边外净空和夹紧后是否有倾斜/滑移，并核对加长 M8 丝杆的行程；确认采购球头侧向 M8 外牙从各自 x 后端直接进入后盖背面中央 boss，球头 z− 接口直接拧入浅黄色下段的一体 M8 承座，确认不与网布干涉、承座没有松动或变形；当前不装深黄色上段和深灰色独立连接器；NPN 供电/输出另行记录，不把机械对准当作电子通道通过。
+安装左右 `net_stand`、网顶承载条、真实网布、PVDF 安装座、左右 M6 PETG 长条主体、前后盖、底盖、竖直采购球头和 20 枚 M6 直角对射器件。用直尺/水平仪记录网顶是否为首轮 `152.5 mm`、名义总网宽是否为 `1830 mm`、左右网柱外边界是否各比台边外伸 `152.5 mm`、左右主体和光轴平行度、10 对光轴的高度/间距、线缆净空和网布张力是否使支架转动；另检查夹体外轮廓/下沿相对台边的外伸是否至少 `130 mm`、桌边外侧非接触区是否为 y 全深实心桥体、上下结构夹臂是否均为 `12 mm`、灰色下部全宽实心渐变支撑（靠台侧 `40 mm`、外侧 `12 mm` 斜底）、台边外净空和夹紧后是否有倾斜/滑移，并核对加长 M8 丝杆的行程；确认采购球头侧向 M8 外牙从各自 x 后端直接进入后盖背面中央 boss，球头 z− 接口直接拧入浅黄色下段的一体 M8 承座，确认不与网布干涉、承座没有松动或变形；当前不装深黄色上段和深灰色独立连接器；NPN 供电/输出另行记录，不把机械对准当作电子通道通过。
 
 | 项目 | 目标/记录方法 | 实测 | 证据 |
 | --- | --- | --- | --- |
@@ -51,7 +51,7 @@
 | 网顶 0 基准 | 台面以上 `152.5 mm` 首轮参数 |  |  |
 | 网架总宽/两侧外伸 | 名义总宽 `1830 mm`；左右网柱外边界各距台边 `152.5 mm` |  |  |
 | 夹体外轮廓/下沿外伸 | 项目结构下限 `≥130 mm`；当前 CAD 夹体最外点名义外伸 `160 mm`，以实物最外点/下沿量测；若按标准网夹复用，还要记录台下投影/开口 |  |  |
-| 实心渐变支撑与夹持开口 | 开口、压块和螺杆区域保留；开口之外 y 全深，靠台侧 `40 mm`、外侧 `8 mm`，斜底连续且无裂纹 |  |  |
+| 实心桥体/渐变支撑与夹持开口 | 开口、压块和螺杆区域保留；桌边外侧非接触区 y 全深实心，上下结构夹臂均 `12 mm`；开口之外下部 y 全深，靠台侧 `40 mm`、外侧 `12 mm`，斜底连续且无裂纹 |  |  |
 | M6 十路点位/高度 | `+10…+190 mm`，中心距 `20 mm`；以量具、对准光斑和 NPN 输出记录 |  |  |
 | M6 机械包络 | M6×0.75、头部约 8 mm、安装杆约 14 mm；以实物量测记录 |  |  |
 | 张力后支架位置 | 重复测量 |  |  |

diff --git a/hardware/README.md b/hardware/README.md
@@ -21,4 +21,4 @@
 
 当前打印件由 `cad/net_stand.scad` 这一份参数源统一导出：它包含左右两段式立柱、下段与传统桌下 C 形夹一体的 `lower_stand_segment`、接缝外套筒/内芯、固定上夹板与桌面之间的可替换保护垫、台底可动压块、网顶承载条、光学模块安装位和 PVDF 夹片安装位。打印数量、标准件和非打印装配边界见 [`cad/print-manifest.zh-CN.md`](cad/print-manifest.zh-CN.md)。
 
-首版按 `1525 mm` 球台宽度、`25 mm` 台面厚度、ITTF 网柱外边界距台边 `152.5 mm` 和 `152.5 mm` 网顶高度起模；因此网顶承载条/网布名义总宽为 `1830 mm`，而不是几乎等于球台宽度。当前支架免打孔，固定 C 形夹体跨过台边，上夹板与桌面之间放置可替换 TPU/硅胶保护垫，保留桌面夹持开口、台底压块和螺杆区域，开口外侧下部改为沿 y 全深的实心渐变承力段，靠台侧厚 `40 mm`、外侧厚 `8 mm` 并形成斜底；固定下臂捕获一枚 M8 螺母；每侧夹紧螺杆下端由两枚预先对锁的 M8 螺母和打印旋钮刚性带动，圆头 M8×1.25 螺杆在台面下方顶起独立可动压块夹紧台底，当前相对原包络加长 `12 mm`，不依赖 PETG 内螺纹或不明确的双固定螺纹；光学导轨位于台边与立柱内缘之间的开放空间，光轴覆盖球台边缘。实心渐变支撑的 PETG 层向、夹紧力、网布张力、加长螺杆行程和真实网夹兼容范围必须以首样实物记录为准。当前不包含相机作为本体测量链路；外部视频设备只用于后续时间戳回放复核。原 `cad/net_post_x_clamp.scad` 是保留的外挂 X 夹具历史方案，不是当前主线。
+首版按 `1525 mm` 球台宽度、`25 mm` 台面厚度、ITTF 网柱外边界距台边 `152.5 mm` 和 `152.5 mm` 网顶高度起模；因此网顶承载条/网布名义总宽为 `1830 mm`，而不是几乎等于球台宽度。当前支架免打孔，固定 C 形夹体跨过台边，上夹板与桌面之间放置可替换 TPU/硅胶保护垫，保留桌面夹持开口、台底压块和螺杆区域；桌边外侧非接触区改为沿 y 全深的实心桥体，上下结构夹臂均加厚到 `12 mm`，开口外侧下部为沿 y 全深的实心渐变承力段，靠台侧厚 `40 mm`、外侧收口为 `12 mm` 并形成斜底；固定下臂捕获一枚 M8 螺母；每侧夹紧螺杆下端由两枚预先对锁的 M8 螺母和打印旋钮刚性带动，圆头 M8×1.25 螺杆在台面下方顶起独立可动压块夹紧台底，当前相对原包络加长 `12 mm`，不依赖 PETG 内螺纹或不明确的双固定螺纹；光学导轨位于台边与立柱内缘之间的开放空间，光轴覆盖球台边缘。实心桥体/渐变支撑的 PETG 层向、夹紧力、网布张力、加长螺杆行程和真实网夹兼容范围必须以首样实物记录为准。当前不包含相机作为本体测量链路；外部视频设备只用于后续时间戳回放复核。原 `cad/net_post_x_clamp.scad` 是保留的外挂 X 夹具历史方案，不是当前主线。
